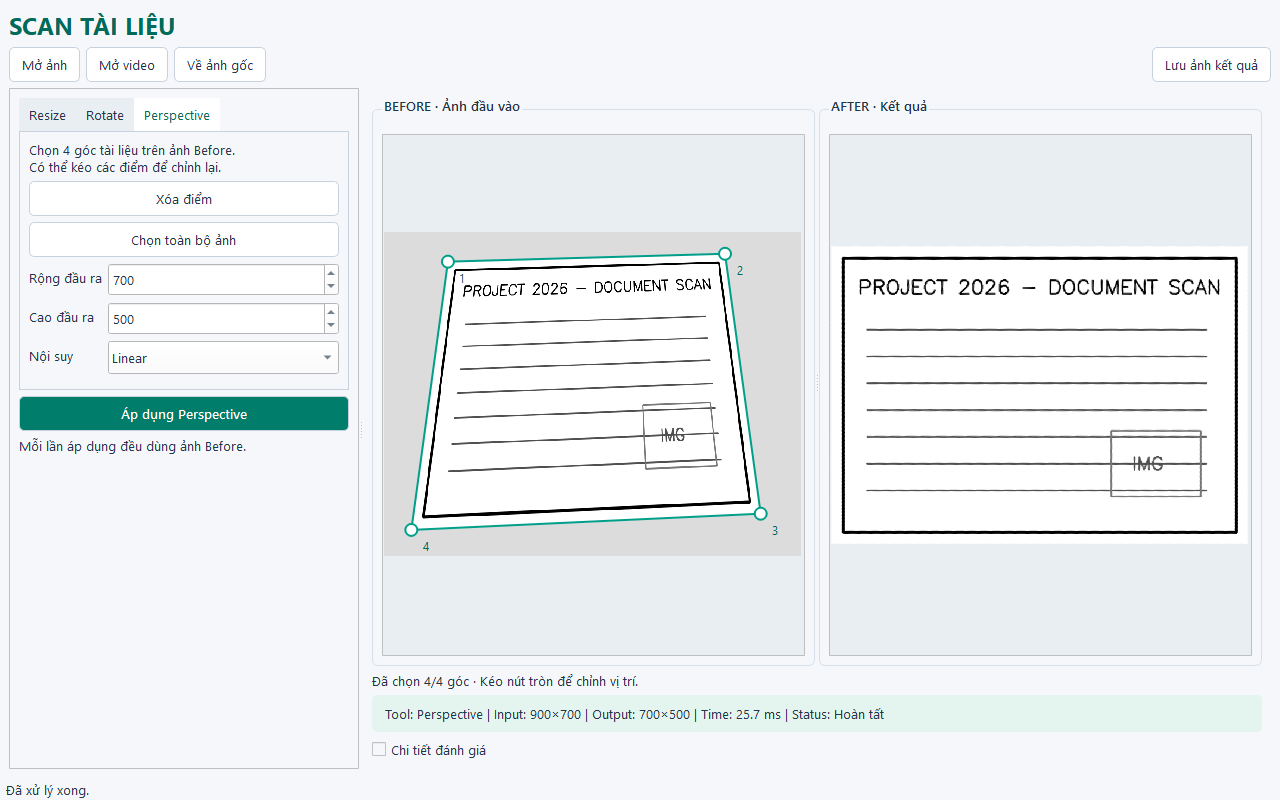
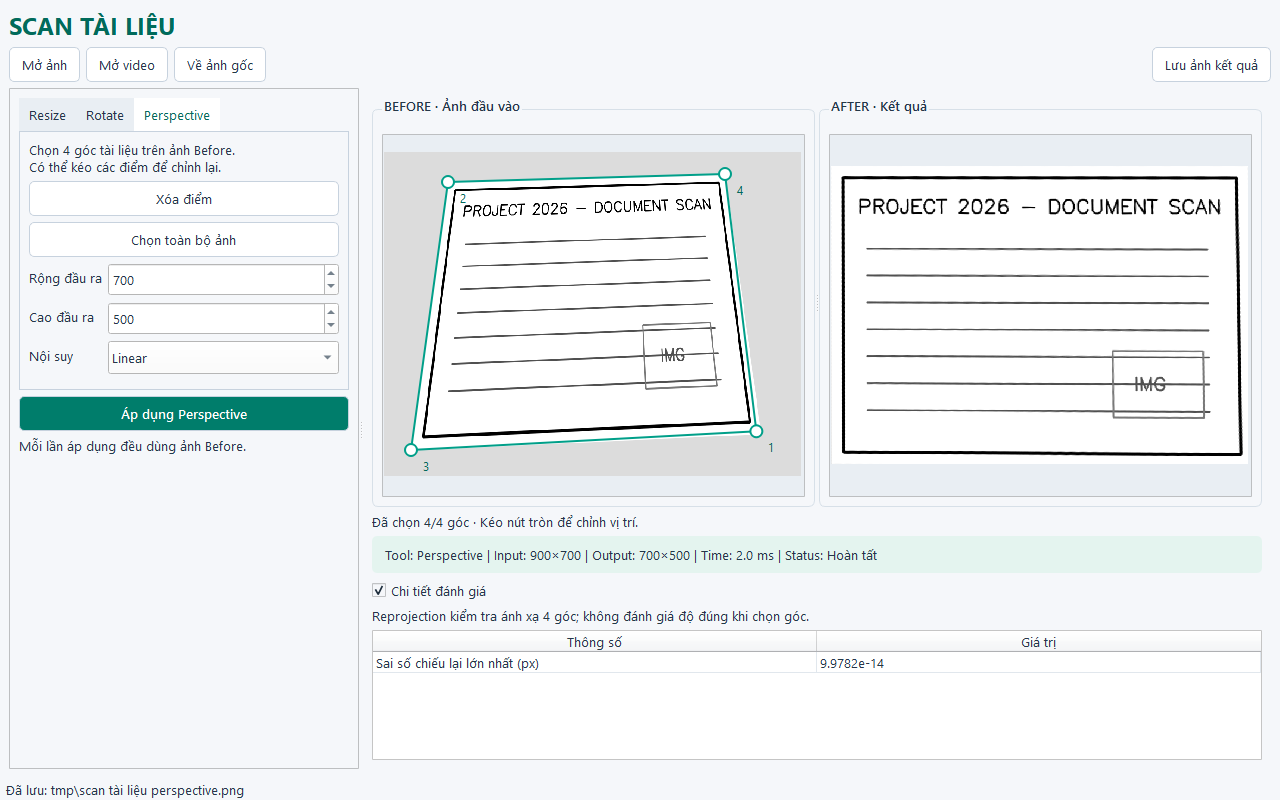
Simplify perspective transform flow and focused evaluation

Changed region(s): [[0.2812, 0.2188, 1.0, 0.9688], [0.0, 0.9688, 0.1875, 1.0]]

diff --git a/scan_app/processing/perspective.py b/scan_app/processing/perspective.py
@@ -1,108 +1,92 @@
-"""Chọn/sắp bốn góc, Perspective Transform và đánh giá từ notebook."""
+"""Scan tài liệu: sắp 4 góc → tính kích thước → tạo ma trận → biến đổi ảnh."""
 import time
 import cv2
 import numpy as np
-from . import (PERSPECTIVE_INTERPOLATIONS, BORDER_MODES, validate_image,
-               check_size, choice, gray, laplacian_variance)
+from . import PERSPECTIVE_INTERPOLATIONS, BORDER_MODES, validate_image, check_size, choice
 
 
-def order_points(pts):
-    """Notebook Perspective cell 7; giữ sum/diff nếu hợp lệ, sửa trường hợp trùng."""
-    pts = np.asarray(pts, dtype=np.float32)
-    if pts.shape != (4, 2) or not np.isfinite(pts).all():
-        raise ValueError('Cần đúng 4 điểm (x, y) hữu hạn.')
-    hull = cv2.convexHull(pts).reshape(-1, 2)
+def order_points(points):
+    """Trả về bốn góc theo thứ tự: trên trái, trên phải, dưới phải, dưới trái."""
+    points = np.asarray(points, dtype=np.float32)
+    if points.shape != (4, 2) or not np.isfinite(points).all():
+        raise ValueError('Hãy chọn đúng 4 góc tài liệu.')
+
+    # Hull có 4 đỉnh nghĩa là các điểm khác nhau và tạo tứ giác lồi.
+    hull = cv2.convexHull(points).reshape(-1, 2)
     if len(hull) != 4 or abs(cv2.contourArea(hull)) < 1:
         raise ValueError('Bốn góc phải khác nhau và tạo tứ giác lồi, không thẳng hàng.')
     edges = np.roll(hull, -1, axis=0) - hull
     diagonals = np.roll(hull, -2, axis=0) - hull
-    # Chiều cao quá nhỏ nghĩa là ba góc gần nằm trên một đường thẳng.
     cross_product = edges[:, 0] * diagonals[:, 1] - edges[:, 1] * diagonals[:, 0]
-    altitudes = np.abs(cross_product) / np.linalg.norm(edges, axis=1)
-    if altitudes.min() < 0.5:
+    heights = np.abs(cross_product) / np.linalg.norm(edges, axis=1)
+    if heights.min() < 0.5:
         raise ValueError('Các góc gần thẳng hàng; hãy chọn lại vùng tài liệu.')
-    s, diff = pts.sum(axis=1), np.diff(pts, axis=1).ravel()
-    rect = pts[[np.argmin(s), np.argmin(diff), np.argmax(s), np.argmax(diff)]]
-    if len(np.unique(rect, axis=0)) == 4 and cv2.isContourConvex(rect):
-        return rect.copy()
-    # Chỉ dùng fallback khi sum/diff chọn trùng góc; không đổi thuật toán warp.
-    center = pts.mean(axis=0)
-    rect = pts[np.argsort(np.arctan2(pts[:, 1] - center[1], pts[:, 0] - center[0]))]
-    first = min(range(4), key=lambda i: (float(rect[i].sum()), float(rect[i, 1]), float(rect[i, 0])))
-    return np.roll(rect, -first, axis=0).copy()
+
+    # Tổng x+y tìm góc trên trái/dưới phải; hiệu y-x tìm hai góc còn lại.
+    coordinate_sum = points.sum(axis=1)
+    coordinate_diff = points[:, 1] - points[:, 0]
+    ordered = points[[np.argmin(coordinate_sum), np.argmin(coordinate_diff),
+                      np.argmax(coordinate_sum), np.argmax(coordinate_diff)]]
+    if len(np.unique(ordered, axis=0)) == 4 and cv2.isContourConvex(ordered):
+        return ordered
+
+    # Với hình thoi, sum/diff có thể chọn trùng góc. Hull đã xếp quanh viền;
+    # chỉ cần đưa góc có tổng nhỏ nhất lên đầu (nếu bằng nhau, lấy góc trên).
+    first = min(range(4), key=lambda i: (hull[i].sum(), hull[i, 1]))
+    return np.roll(hull, -first, axis=0)
 
 
-def compute_output_size(rect):
-    tl, tr, br, bl = order_points(rect)
-    # tl/tr/br/bl: trên trái, trên phải, dưới phải, dưới trái.
-    top_width = np.linalg.norm(tr - tl)
-    bottom_width = np.linalg.norm(br - bl)
-    left_height = np.linalg.norm(bl - tl)
-    right_height = np.linalg.norm(br - tr)
-    # Lấy cạnh dài hơn, giữ quy ước notebook (không cộng thêm 1 pixel).
+def compute_output_size(src_points):
+    """Tính rộng/cao từ bốn góc đã được order_points() sắp xếp."""
+    src_points = np.asarray(src_points, dtype=np.float32)
+    top_left, top_right, bottom_right, bottom_left = src_points
+    top_width = np.linalg.norm(top_right - top_left)
+    bottom_width = np.linalg.norm(bottom_right - bottom_left)
+    left_height = np.linalg.norm(bottom_left - top_left)
+    right_height = np.linalg.norm(bottom_right - top_right)
     width = max(2, int(round(max(top_width, bottom_width))))
     height = max(2, int(round(max(left_height, right_height))))
     return width, height
 
 
-def perspective_transform(image, src_points, output_width=None, output_height=None,
+def perspective_transform(image, points, output_width=None, output_height=None,
                           interpolation='Linear', border_mode='Constant', border_value=(255, 255, 255)):
-    """Notebook Perspective cell 11; cùng tuple kết quả và phạm vi đo warp."""
+    """Trả về ảnh, ma trận, góc nguồn/đích và thời gian warp (ms)."""
     validate_image(image)
-    rect = order_points(src_points)
-    h, w = image.shape[:2]
-    if (rect < 0).any() or (rect[:, 0] > w-1).any() or (rect[:, 1] > h-1).any():
+    src_points = order_points(points)
+    image_height, image_width = image.shape[:2]
+    if (src_points < 0).any() or (src_points[:, 0] > image_width - 1).any() or (src_points[:, 1] > image_height - 1).any():
         raise ValueError('Các góc phải nằm trong ảnh đầu vào.')
-    auto_w, auto_h = compute_output_size(rect)
-    out_w, out_h = check_size(auto_w if output_width is None else output_width,
-                              auto_h if output_height is None else output_height, minimum=2)
-    # Bốn góc tài liệu được đưa về bốn góc hình chữ nhật đầu ra.
-    dst = np.array([[0, 0], [out_w-1, 0], [out_w-1, out_h-1], [0, out_h-1]], dtype=np.float32)
-    M = cv2.getPerspectiveTransform(rect, dst)
-    if not np.isfinite(M).all() or np.linalg.matrix_rank(M) < 3:
-        raise ValueError('Ma trận phối cảnh suy biến; hãy chọn lại bốn góc.')
-    t0 = time.perf_counter()
-    warped = cv2.warpPerspective(image, M, (out_w, out_h),
+
+    width, height = compute_output_size(src_points)
+    if output_width is not None:
+        width = output_width
+    if output_height is not None:
+        height = output_height
+    # Cần ít nhất 2 pixel mỗi chiều để bốn góc đích không trùng nhau.
+    width, height = check_size(width, height, minimum=2)
+    dst_points = np.float32([
+        [0, 0],
+        [width - 1, 0],
+        [width - 1, height - 1],
+        [0, height - 1],
+    ])
+
+    matrix = cv2.getPerspectiveTransform(src_points, dst_points)
+    if not np.isfinite(matrix).all() or np.linalg.matrix_rank(matrix) < 3:
+        raise ValueError('Không thể biến đổi vùng này; hãy chọn lại bốn góc.')
+    start = time.perf_counter()
+    result = cv2.warpPerspective(
+        image, matrix, (width, height),
         flags=choice(PERSPECTIVE_INTERPOLATIONS, interpolation),
-        borderMode=choice(BORDER_MODES, border_mode), borderValue=border_value)
-    elapsed_ms = (time.perf_counter() - t0) * 1000
-    return warped, M, rect, dst, elapsed_ms
+        borderMode=choice(BORDER_MODES, border_mode), borderValue=border_value,
+    )
+    elapsed_ms = (time.perf_counter() - start) * 1000
+    return result, matrix, src_points, dst_points, elapsed_ms
 
 
-def polygon_area(points):
-    p = order_points(points)
-    x, y = p[:, 0], p[:, 1]
-    return float(0.5 * abs(np.dot(x, np.roll(y, 1)) - np.dot(y, np.roll(x, 1))))
-
-
-def reprojection_error(src_pts, dst_pts, H):
-    src = order_points(src_pts).reshape(-1, 1, 2)
-    projected = cv2.perspectiveTransform(src, H).reshape(-1, 2)
-    return projected, np.linalg.norm(projected - dst_pts, axis=1)
-
-
-def ssim_global(img1, img2):
-    """SSIM global đơn giản của notebook Perspective, khác SSIM cửa sổ."""
-    if img1.shape != img2.shape:
-        raise ValueError('Hai ảnh đánh giá phải cùng kích thước và số kênh.')
-    g1, g2 = gray(img1).astype(np.float64), gray(img2).astype(np.float64)
-    mu1, mu2 = g1.mean(), g2.mean()
-    var1, var2 = g1.var(), g2.var()
-    cov12 = ((g1-mu1)*(g2-mu2)).mean()
-    C1, C2 = (0.01*255)**2, (0.03*255)**2
-    return float(((2*mu1*mu2+C1)*(2*cov12+C2)) /
-                 ((mu1**2+mu2**2+C1)*(var1+var2+C2)))
-
-
-def scan_perspective(image, points, interpolation='Linear', border_mode='Constant',
-                     output_width=None, output_height=None, border_value=(255, 255, 255)):
-    result, M, src, dst, t = perspective_transform(image, points, output_width,
-        output_height, interpolation, border_mode, border_value)
-    _, err = reprojection_error(src, dst, M)
-    info = {'matrix': M, 'src_points': src, 'dst_points': dst,
-            'output_width': result.shape[1], 'output_height': result.shape[0],
-            'processing_time_ms': t, 'sharpness': laplacian_variance(result),
-            'selected_area': polygon_area(src),
-            'selected_area_ratio': polygon_area(src) / (image.shape[0]*image.shape[1]),
-            'reprojection_mean_px': float(err.mean()), 'reprojection_max_px': float(err.max())}
-    return result, info
+def reprojection_error(src_points, dst_points, matrix):
+    """Kiểm tra ma trận đưa bốn góc nguồn tới gần bốn góc đích đến mức nào."""
+    src_points = np.asarray(src_points, dtype=np.float32).reshape(-1, 1, 2)
+    projected = cv2.perspectiveTransform(src_points, matrix).reshape(-1, 2)
+    return projected, np.linalg.norm(projected - dst_points, axis=1)

diff --git a/tests/test_algorithms.py b/tests/test_algorithms.py
@@ -3,12 +3,12 @@ import numpy as np
 import cv2
 import pytest
 from scan_app.processing import (
-    laplacian_variance, mse, psnr, INTERPOLATIONS, PERSPECTIVE_INTERPOLATIONS, BORDER_MODES,
+    laplacian_variance, mse, psnr, ssim_global, INTERPOLATIONS, PERSPECTIVE_INTERPOLATIONS, BORDER_MODES,
 )
 from scan_app.processing.resize import resize_image, evaluate_resize
 from scan_app.processing.rotate import rotate_image
 from scan_app.processing.perspective import (
-    order_points, perspective_transform, ssim_global, scan_perspective,
+    order_points, perspective_transform, reprojection_error,
 )
 from scan_app.image_io import read_image, write_image
 from tests.reference import resize_rotate as rr, perspective as pp
@@ -79,6 +79,31 @@ def test_diamond_order_is_unique_and_permutation_invariant():
         assert len(np.unique(actual, axis=0)) == 4
 
 
+def test_perspective_click_order_and_auto_size(image):
+    points = [[5, 5], [75, 5], [75, 55], [5, 55]]
+    expected = perspective_transform(image, points)
+    assert expected[0].shape[:2] == (50, 70)
+    for clicked_points in itertools.permutations(points):
+        actual = perspective_transform(image, clicked_points)
+        for before, after in zip(expected[:4], actual[:4]):
+            np.testing.assert_array_equal(before, after)
+
+
+def test_perspective_invalid_inputs(image):
+    points = [[5, 5], [75, 5], [75, 55], [5, 55]]
+    with pytest.raises(ValueError):
+        perspective_transform(None, points)
+    with pytest.raises(ValueError):
+        perspective_transform(image, points[:3])
+    for size in [0, -1, 1, 2.5, float('nan'), 24_000_000]:
+        with pytest.raises(ValueError):
+            perspective_transform(image, points, output_width=size)
+        with pytest.raises(ValueError):
+            perspective_transform(image, points, output_height=size)
+    with pytest.raises(ValueError):
+        perspective_transform(image, [[0, 0], [89.5, 0], [89.5, 59], [0, 59]])
+
+
 @pytest.mark.parametrize('points', [
     [[0, 0], [0, 0], [20, 20], [0, 20]],
     [[0, 0], [10, 0], [20, 0], [30, 0]],
@@ -93,13 +118,14 @@ def test_invalid_corners(points):
 
 def test_perspective_identity_and_reprojection(image):
     pts = [[0, 0], [89, 0], [89, 59], [0, 59]]
-    result, info = scan_perspective(image, pts, output_width=90, output_height=60)
+    result, matrix, src, dst, _ = perspective_transform(image, pts, output_width=90, output_height=60)
+    _, errors = reprojection_error(src, dst, matrix)
     np.testing.assert_array_equal(result, image)
-    assert info['reprojection_max_px'] < 1e-3
+    assert errors.max() < 1e-3
     with pytest.raises(ValueError):
-        scan_perspective(image, pts, output_width=1)
+        perspective_transform(image, pts, output_width=1)
     with pytest.raises(ValueError):
-        scan_perspective(image, [[0, 0], [99, 0], [99, 59], [0, 59]])
+        perspective_transform(image, [[0, 0], [99, 0], [99, 59], [0, 59]])
 
 
 def test_resize_metrics_match_notebook(image):
@@ -136,7 +162,8 @@ def test_synthetic_ground_truth():
     points = np.float32([[120, 80], [760, 40], [820, 610], [80, 650]])
     distorted = cv2.warpPerspective(doc, cv2.getPerspectiveTransform(src, points), (900, 700),
                                     borderValue=(220, 220, 220))
-    restored, info = scan_perspective(distorted, points, output_width=700, output_height=500)
-    assert info['reprojection_max_px'] < 1e-3
+    restored, matrix, src, dst, _ = perspective_transform(distorted, points, output_width=700, output_height=500)
+    _, errors = reprojection_error(src, dst, matrix)
+    assert errors.max() < 1e-3
     assert psnr(doc, restored) > 20
     assert ssim_global(doc, restored) > .9

diff --git a/scan_app/window.py b/scan_app/window.py
@@ -16,7 +16,7 @@ from .processing import (
 )
 from .processing.resize import resize_image, evaluate_resize
 from .processing.rotate import rotate_image
-from .processing.perspective import order_points, scan_perspective
+from .processing.perspective import order_points, perspective_transform, reprojection_error
 from .canvas import ImageCanvas
 from .image_io import read_image, write_image
 
@@ -90,8 +90,9 @@ class TransformWorker(QThread):
                 info = {'Góc (độ, dương = ngược kim đồng hồ)': self.params['angle'],
                         'Scale xoay': self.params['scale'], 'Giữ toàn bộ': self.params['keep_full']}
             else:
-                result, info = scan_perspective(self.image, **self.params)
-                elapsed = (time.perf_counter()-start)*1000
+                result, matrix, src, dst, elapsed = perspective_transform(self.image, **self.params)
+                _, errors = reprojection_error(src, dst, matrix)
+                info = {'reprojection_max_px': float(errors.max())}
                 info['Ghi chú'] = 'Reprojection kiểm tra ánh xạ 4 góc; không đánh giá độ đúng khi chọn góc.'
             info.update({'Phép biến đổi': self.operation,
                          'Đầu vào (W×H)': f'{self.image.shape[1]}×{self.image.shape[0]}',
@@ -504,10 +505,8 @@ class MainWindow(QMainWindow):
         elif operation == 'Rotate':
             keys = ['Góc (độ, dương = ngược kim đồng hồ)', 'Scale xoay', 'Giữ toàn bộ']
         else:
-            keys = ['sharpness', 'selected_area_ratio', 'reprojection_max_px']
-        labels = {'sharpness': 'Độ sắc nét (Laplacian)',
-                  'selected_area_ratio': 'Diện tích chọn / ảnh',
-                  'reprojection_max_px': 'Sai số chiếu lại lớn nhất (px)'}
+            keys = ['reprojection_max_px']
+        labels = {'reprojection_max_px': 'Sai số chiếu lại lớn nhất (px)'}
         entries = [(labels.get(key, key), info[key]) for key in keys]
         self.metrics.setRowCount(len(entries))
         for row, (key, value) in enumerate(entries):

diff --git a/scripts/generate_demo.py b/scripts/generate_demo.py
@@ -6,10 +6,10 @@ import json
 from pathlib import Path
 import cv2
 import numpy as np
-from scan_app.processing import mse, psnr, PERSPECTIVE_INTERPOLATIONS
+from scan_app.processing import mse, psnr, ssim_global, PERSPECTIVE_INTERPOLATIONS
 from scan_app.processing.resize import resize_image
 from scan_app.processing.rotate import rotate_image
-from scan_app.processing.perspective import ssim_global, scan_perspective
+from scan_app.processing.perspective import perspective_transform, reprojection_error
 from scan_app.image_io import write_image
 from tests.reference.perspective import make_synthetic_document
 
@@ -37,15 +37,16 @@ def main():
                          'output_height': 500, 'type': 'synthetic',
                          'blur': i in (3, 7), 'brightness_changed': i in (4, 8)})
         for interpolation in PERSPECTIVE_INTERPOLATIONS:
-            restored, info = scan_perspective(image, points, interpolation=interpolation,
-                                                 output_width=700, output_height=500)
+            restored, matrix, src_points, dst_points, elapsed = perspective_transform(
+                image, points, interpolation=interpolation, output_width=700, output_height=500)
+            _, errors = reprojection_error(src_points, dst_points, matrix)
             resized = resize_image(image, scale=.5)
             rotated = rotate_image(image, angle=30)
             rows.append({'image': name, 'interpolation': interpolation,
                 'MSE': mse(doc, restored), 'PSNR_dB': psnr(doc, restored),
                 'SSIM_global': ssim_global(doc, restored),
-                'reprojection_max_px': info['reprojection_max_px'],
-                'warp_ms': info['processing_time_ms'],
+                'reprojection_max_px': float(errors.max()),
+                'warp_ms': elapsed,
                 'resize_shape': str(resized.shape), 'rotate_shape': str(rotated.shape)})
             if interpolation == 'Linear':
                 write_image(output/f'restored_{i+1:02d}.png', restored)

diff --git a/scan_app/processing/__init__.py b/scan_app/processing/__init__.py
@@ -55,3 +55,16 @@ def mse(img1, img2):
 def psnr(img1, img2):
     m = mse(img1, img2)
     return float('inf') if m == 0 else float(10 * np.log10(255.0 ** 2 / m))
+
+
+def ssim_global(img1, img2):
+    """SSIM global đơn giản của notebook Perspective, khác SSIM cửa sổ."""
+    if img1.shape != img2.shape:
+        raise ValueError('Hai ảnh đánh giá phải cùng kích thước và số kênh.')
+    g1, g2 = gray(img1).astype(np.float64), gray(img2).astype(np.float64)
+    mu1, mu2 = g1.mean(), g2.mean()
+    var1, var2 = g1.var(), g2.var()
+    cov12 = ((g1-mu1)*(g2-mu2)).mean()
+    C1, C2 = (0.01*255)**2, (0.03*255)**2
+    return float(((2*mu1*mu2+C1)*(2*cov12+C2)) /
+                 ((mu1**2+mu2**2+C1)*(var1+var2+C2)))

diff --git a/tests/test_gui.py b/tests/test_gui.py
@@ -71,6 +71,10 @@ def test_gui_workflow(app, tmp_path, monkeypatch):
     window.apply_transform()
     finish_worker(app, window)
     assert window.info['reprojection_max_px'] < 1e-3
+    target = tmp_path / 'scan tài liệu.png'
+    monkeypatch.setattr(QFileDialog, 'getSaveFileName', lambda *args: (str(target), 'PNG'))
+    window.save_image()
+    np.testing.assert_array_equal(read_image(target), window.result)
     assert errors == []
     Path('tmp').mkdir(exist_ok=True)
     window.grab().save('tmp/gui-test.png')

diff --git a/docs/THAY_DOI.md b/docs/THAY_DOI.md
@@ -84,3 +84,16 @@ Phần bên trên ghi lại các phiên bản trước. Giao diện hiện tại
 **Kiểm thử được điều chỉnh:** không xóa hàm test nào. Bỏ các assertion cho xuất JSON/lịch sử ghép bước và ô X/Y vì các chức năng đó đã bỏ khỏi UI. Test Rotate trong workflow giờ xoay ảnh Before 240×180, nên kết quả là 180×240 thay vì xoay ảnh Resize trung gian. Giữ kiểm tra mở/lưu, Resize, Rotate, Perspective, Reset, kéo điểm và Unicode; thêm test palette sáng khi khởi tạo từ palette tối và đọc ảnh lỗi.
 
 **File thay đổi:** `main.py`, `scan_app/window.py`, `scan_app/canvas.py`, `scan_app/processing/resize.py`, `scan_app/processing/perspective.py`, `tests/test_gui.py`, `README.md`, `docs/REVIEW_GUIDE.md`, `docs/KIEM_THU.md`, `docs/THAY_DOI.md`, `docs/gui-preview.png`.
+
+## Đơn giản hóa riêng Perspective – 11/09/2026
+
+- Module giảm từ **7 hàm xuống 4 hàm**: `order_points`, `compute_output_size`, `perspective_transform`, `reprojection_error`.
+- Bỏ `scan_perspective` và `polygon_area`; GUI và script demo gọi trực tiếp `perspective_transform`. Bỏ metric diện tích và độ sắc nét khỏi phần Perspective trên GUI. Thời gian hiển thị cho Perspective là thời gian riêng warp.
+- Chuyển nguyên hàm `ssim_global` sang `processing/__init__.py` cùng các metric dùng chung; giữ đánh giá bộ mô phỏng và kiểm thử SSIM.
+- Giữ sum/diff để sắp góc thông thường. Khi sum/diff chọn trùng góc, tận dụng convex hull đã xếp quanh viền; bỏ tính tâm, arctan2 và sắp góc lần nữa. Giữ quy ước góc bắt đầu ổn định cho hình thoi.
+- Tên biến trong luồng chính là `src_points`, `dst_points`, `width`, `height`, `matrix`, `result`. Tách rõ bốn điểm đích trên bốn dòng. Giữ `getPerspectiveTransform`, `warpPerspective`, nội suy và nền trắng mặc định.
+- `compute_output_size` nhận bốn điểm đã sắp xếp từ `order_points`; `reprojection_error` nhận cặp điểm nguồn/đích tương ứng. Hai helper không sắp xếp/kiểm tra hình học lại. `perspective_transform` vẫn trả tuple `(result, matrix, src_points, dst_points, elapsed_ms)` để đối chiếu notebook và đo sai số.
+- Giữ kiểm tra ảnh, tứ giác lồi, điểm gần thẳng hàng, giới hạn tọa độ, kích thước tối thiểu 2 và ma trận suy biến. Đây là các lỗi thao tác thật; không bỏ test hình thoi hoặc gần thẳng hàng để rút code.
+- Không sửa Resize, Rotate, canvas, light mode hay chức năng click/drag/Before/After/Save. Cập nhật import và cách nhận kết quả trong test/script; không xóa hàm test hoặc assertion cũ.
+
+File thay đổi: `scan_app/processing/perspective.py`, `scan_app/processing/__init__.py`, `scan_app/window.py`, `scripts/generate_demo.py`, `tests/test_algorithms.py`, `tests/test_gui.py`, `README.md`, `docs/REVIEW_GUIDE.md`, `docs/KIEM_THU.md`, `docs/THAY_DOI.md`, `docs/gui-preview.png`.

diff --git a/docs/REVIEW_GUIDE.md b/docs/REVIEW_GUIDE.md
@@ -13,9 +13,9 @@ Nên đọc theo thứ tự sau:
 
 - Resize giữ tỷ lệ bằng cách lấy chiều vừa sửa làm chuẩn. Khi gọi API với cả Width/Height, ảnh được thu vừa hộp giới hạn.
 - Rotate bật Keep Full sẽ mở rộng canvas và dịch tâm xoay, giúp không mất góc ảnh.
-- Perspective sắp bốn điểm, đo cạnh để tính đầu ra, tạo ma trận bằng `getPerspectiveTransform`, rồi gọi `warpPerspective`.
+- Perspective gọi trực tiếp `perspective_transform`: sắp bốn điểm, đo cạnh để tính đầu ra, tạo ma trận bằng `getPerspectiveTransform`, rồi gọi `warpPerspective`. Hàm trả ảnh và thông tin ma trận/góc/thời gian; `reprojection_error` chỉ dùng cho đánh giá chi tiết. Không còn hàm bọc `scan_perspective`.
 - Before luôn là ảnh vừa mở. After là kết quả của lần áp dụng gần nhất; Reset bỏ kết quả và điểm chọn.
-- Chi tiết đánh giá chỉ hiện chỉ số liên quan đến kết quả. Không có xuất JSON hay lịch sử ghép bước trong giao diện hiện tại.
+- Chi tiết Perspective chỉ giữ sai số chiếu lại bốn góc; SSIM global của bộ mô phỏng nằm trong `processing/__init__.py`. Chi tiết đánh giá chỉ hiện chỉ số liên quan đến kết quả. Không có xuất JSON hay lịch sử ghép bước trong giao diện hiện tại.
 
 Các kiểm tra điểm trùng, thẳng hàng, ma trận suy biến và giới hạn 24 megapixel được giữ để tránh lỗi thật khi thao tác. Không cần học thuộc mọi chi tiết kiểm thử để giải thích ba kỹ thuật.
 

diff --git a/docs/KIEM_THU.md b/docs/KIEM_THU.md
@@ -1,6 +1,15 @@
 # Kết quả kiểm thử
 
-## Phiên bản hiện tại – 11/09/2026
+## Sau khi đơn giản hóa Perspective – 11/09/2026
+
+**84 test đạt** với `python -X utf8 -m pytest -q`.
+
+- Giữ 82 test trước đó; cập nhật cách gọi từ `scan_perspective` sang `perspective_transform` và import SSIM, giữ các điều kiện kiểm tra cũ.
+- Thêm test 24 thứ tự click cho tứ giác và tính kích thước tự động, test thiếu ảnh/điểm/kích thước đầu ra sai. Test GUI bổ sung lưu và mở lại kết quả Perspective với tên file tiếng Việt.
+- Smoke test trực tiếp Qt/Windows: mở `document_01.png`, click bốn góc theo thứ tự 3–1–4–2, đổi kích thước cửa sổ rồi kéo góc, Apply ra ảnh 700×500, Save PNG tên tiếng Việt và đối chiếu toàn bộ pixel khi mở lại. Polygon và bốn control point vẫn có; sai số chiếu lại < 0.001 px.
+- Đã chụp và xem GUI mới tại `docs/gui-preview.png`. Resize/Rotate/canvas không thay đổi trong lần này.
+
+## Phiên bản trước khi rút gọn Perspective – 11/09/2026
 
 **82 test đạt** với `python -X utf8 -m pytest -q` trên Windows, Python 3.13.
 
